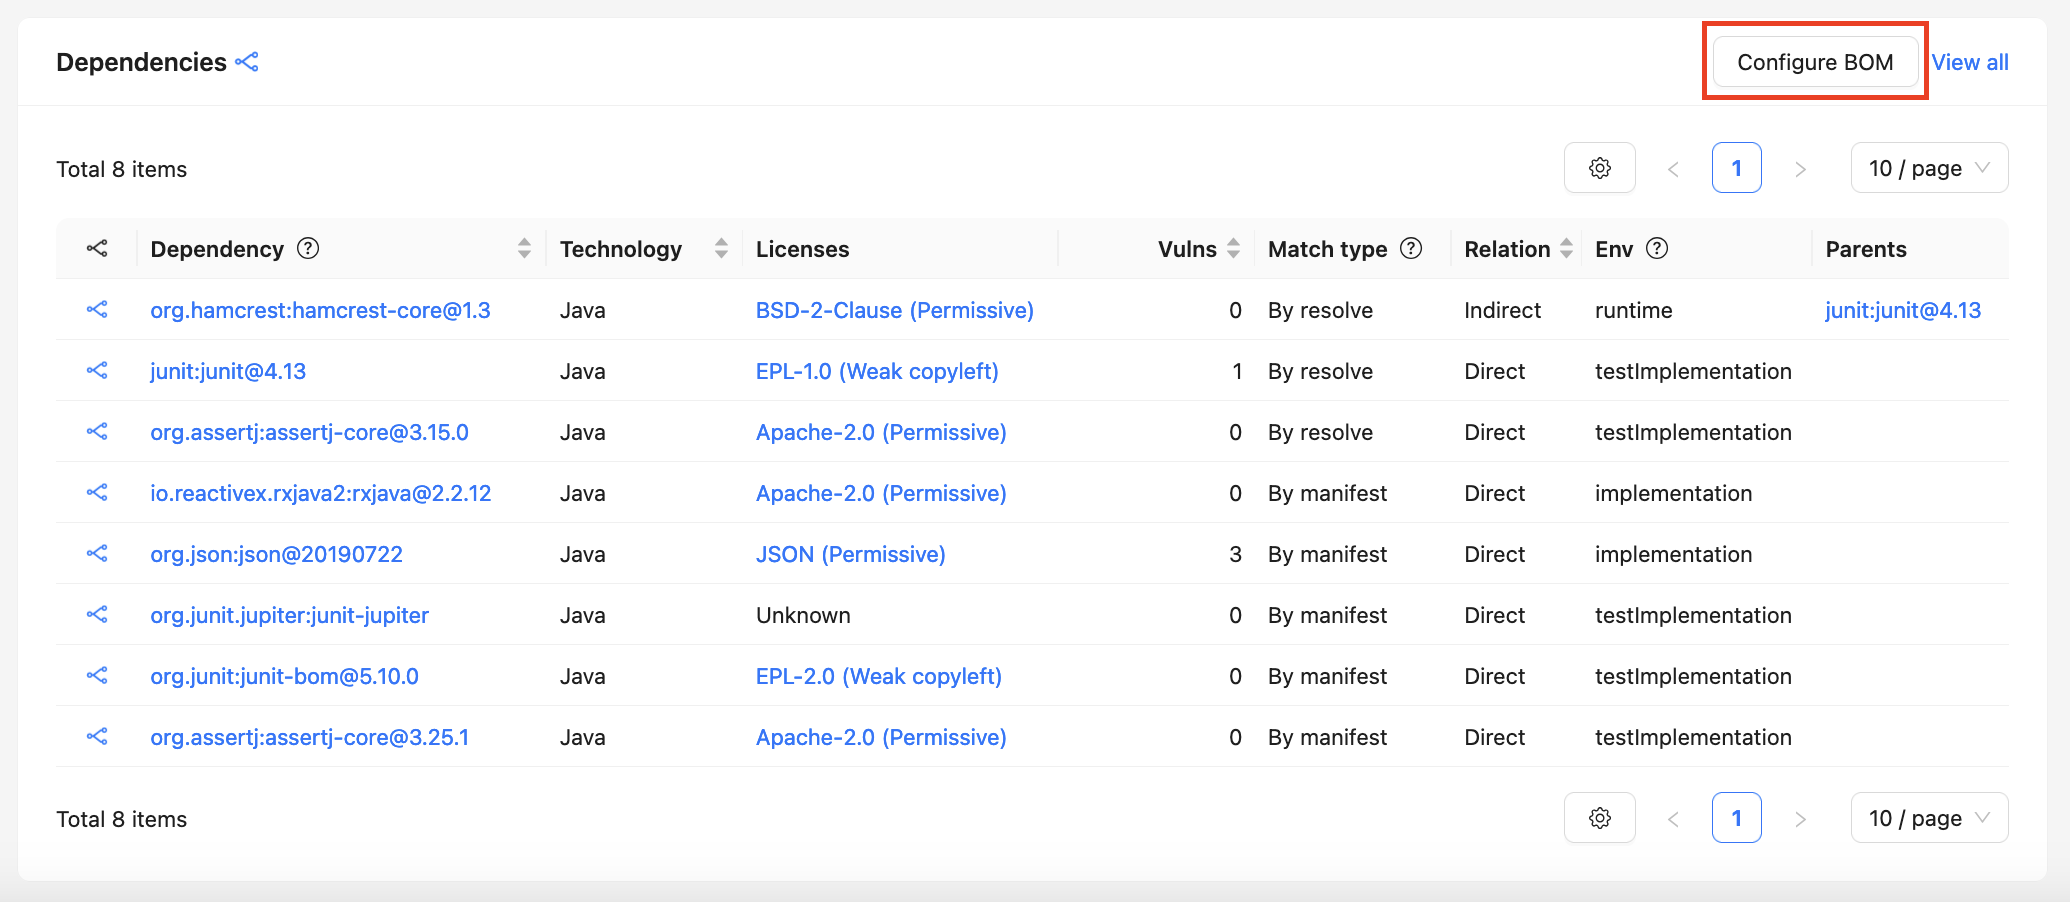
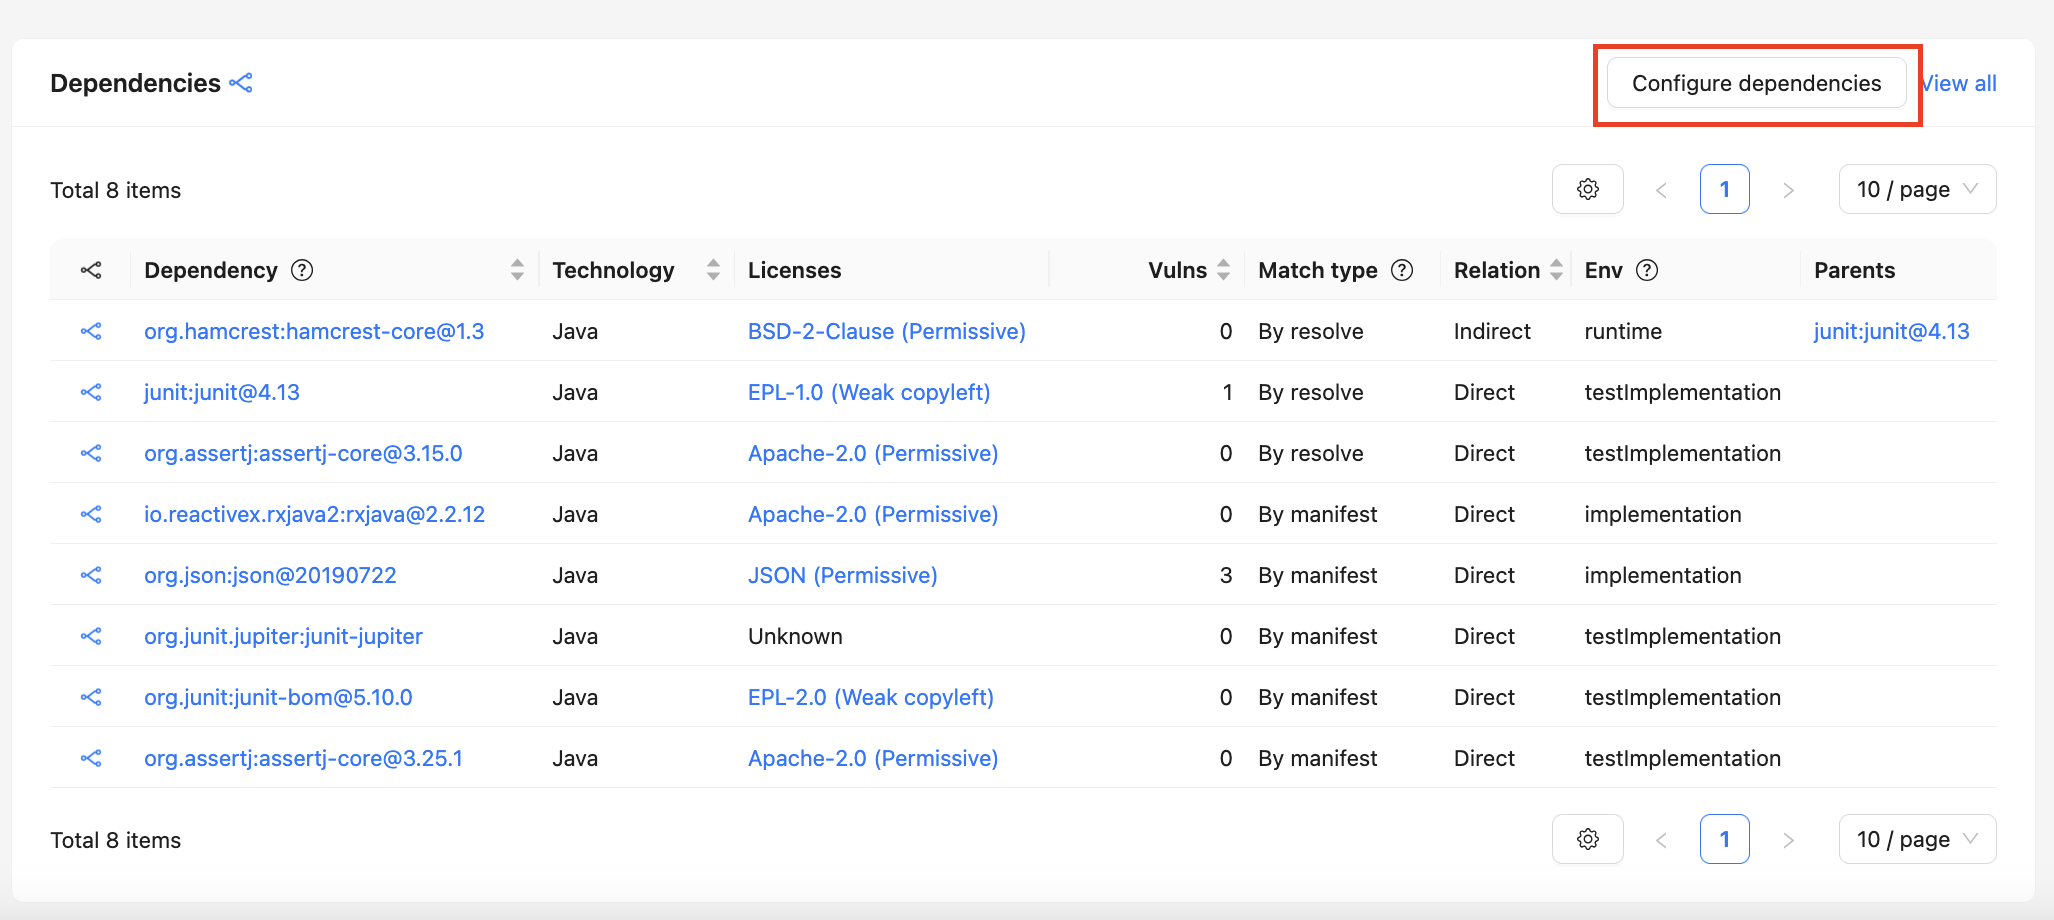
CS-41788256: add licenses to the "configure dependencies" button

diff --git a/docs/on-premise/how-to/export-results.md b/docs/on-premise/how-to/export-results.md
@@ -42,11 +42,11 @@ CSV-таблица будет учитывать использованные н
 
 ## Настройка свойств зависимостей для выгрузки в SBoM {#bom-settings}
 
-Для настройки свойств зависимостей необходимо перейти на страницу по кнопке `Configure BOM` в таблице **Dependencies** проекта.
+Для настройки свойств зависимостей необходимо перейти на страницу по кнопке `Configure dependencies` в таблице **Dependencies** проекта.
 
 ![Dependencies settings button](/assets/img/dependencies_settings_button.png)
 
-Страница позволяет указать поверхность атаки (**Attack surface**), функцию безопасности (**Security function**) и систему хранения кода (**VCS**) для каждого компонента проекта.
+Страница позволяет указать поверхность атаки (**Attack surface**), функцию безопасности (**Security function**), систему хранения кода (**VCS**) и лицензии (**Licenses**) для каждого компонента проекта.
 
 ![Dependencies settings](/assets/img/dependencies_settings.png)
 
@@ -55,7 +55,9 @@ CSV-таблица будет учитывать использованные н
 - при экспорте SBoM со страницы проекта;
 - при экспорте SBoM со страницы истории результатов сканирования (для самого последнего успешного SCA-сканирования);
 - при последующих сканированиях проекта;
-- при сканировании проекта через консольный агент Johnny.
+- при сканировании проекта через консольный агент Johnny;
+- в дашборде проекта;
+- на странице лицензии.
 
 **Важно**: изменения значений не применяются к предыдущим сканированиям проекта и относятся только к SBoM текущего проекта, даже если зависимость используется в нескольких проектах.
 
@@ -82,3 +84,11 @@ CSV-таблица будет учитывать использованные н
 - `no` — если функции компонента не участвуют в реализации функций безопасности (значение по умолчанию).
 
 При экспорте SBoM в формате `CycloneDX v1.6 Ext JSON` выбранное значение учитывается в свойстве `"GOST:security_function"` компонента.
+
+### Licenses
+
+Поле **Licenses** позволяет указать лицензии компонента.
+
+При указании пустого списка выбираются значения, найденные при последнем SCA-анализе.
+
+При экспорте SBoM выбранные значения учитываются в поле `licenses` компонента.

diff --git a/docs/on-premise/how-to/export-results.en.md b/docs/on-premise/how-to/export-results.en.md
@@ -42,11 +42,11 @@ For CLI projects, SBoM can also be loaded via the interface using the **Import S
 
 ## Configuring dependency properties for SBoM export {#bom-settings}
 
-To configure dependency properties, go to the page by clicking the `Configure BOM` button in the **Dependencies** table of the project.
+To configure dependency properties, go to the page by clicking the `Configure dependencies` button in the **Dependencies** table of the project.
 
 ![Dependencies settings button](/assets/img/dependencies_settings_button.png)
 
-The page allows you to specify the attack surface (**Attack surface**), security function (**Security function**) and code storage system (**VCS**) for each project component.
+The page allows you to specify the attack surface (**Attack surface**), security function (**Security function**), version control system (**VCS**) and licenses for each project component.
 
 ![Dependencies settings](/assets/img/dependencies_settings.png)
 
@@ -55,7 +55,9 @@ The values entered are taken into account:
 - when exporting SBoM from the project page;
 - when exporting SBoM from the scan results history page (for the most recent successful SCA scan);
 - during subsequent scans of the project;
-- when scanning the project via the Johnny console agent.
+- when scanning the project via the Johnny console agent;
+- in the project dashboard;
+- on the license page.
 
 **Important**: Changes to values do not apply to previous scans of the project and only relate to the SBoM of the current project, even if a dependency is used in multiple projects.
 
@@ -82,3 +84,11 @@ The **Security function** field allows you to specify whether the component belo
 - `no` — if the component functions do not participate in the implementation of security functions (default value).
 
 When exporting SBoM in the `CycloneDX v1.6 Ext JSON` format, the selected value is taken into account in the `"GOST:security_function"` property of the component.
+
+### Licenses
+
+The **Licenses** field allows you to specify the licenses of the component.
+
+If an empty list is specified, the values found during the last SCA analysis are selected.
+
+When exporting SBoM, the selected values are taken into account in the `licenses` field of the component.
